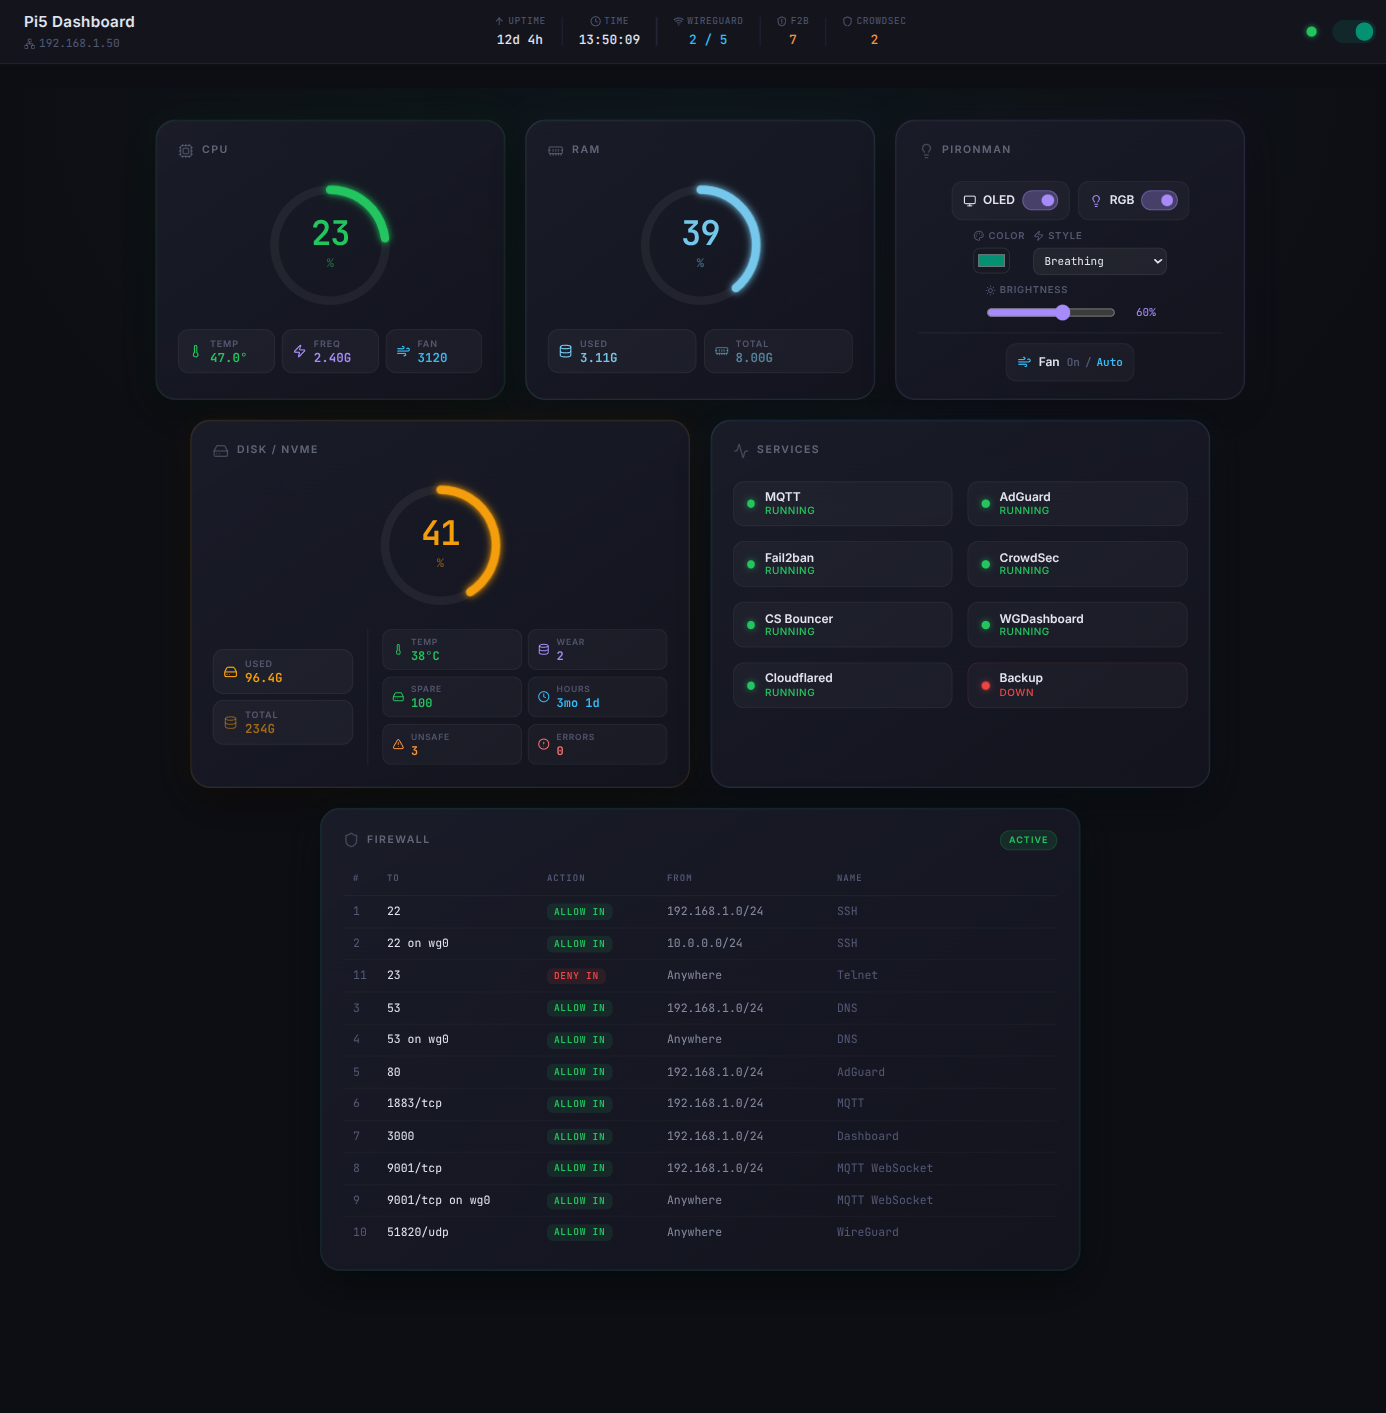
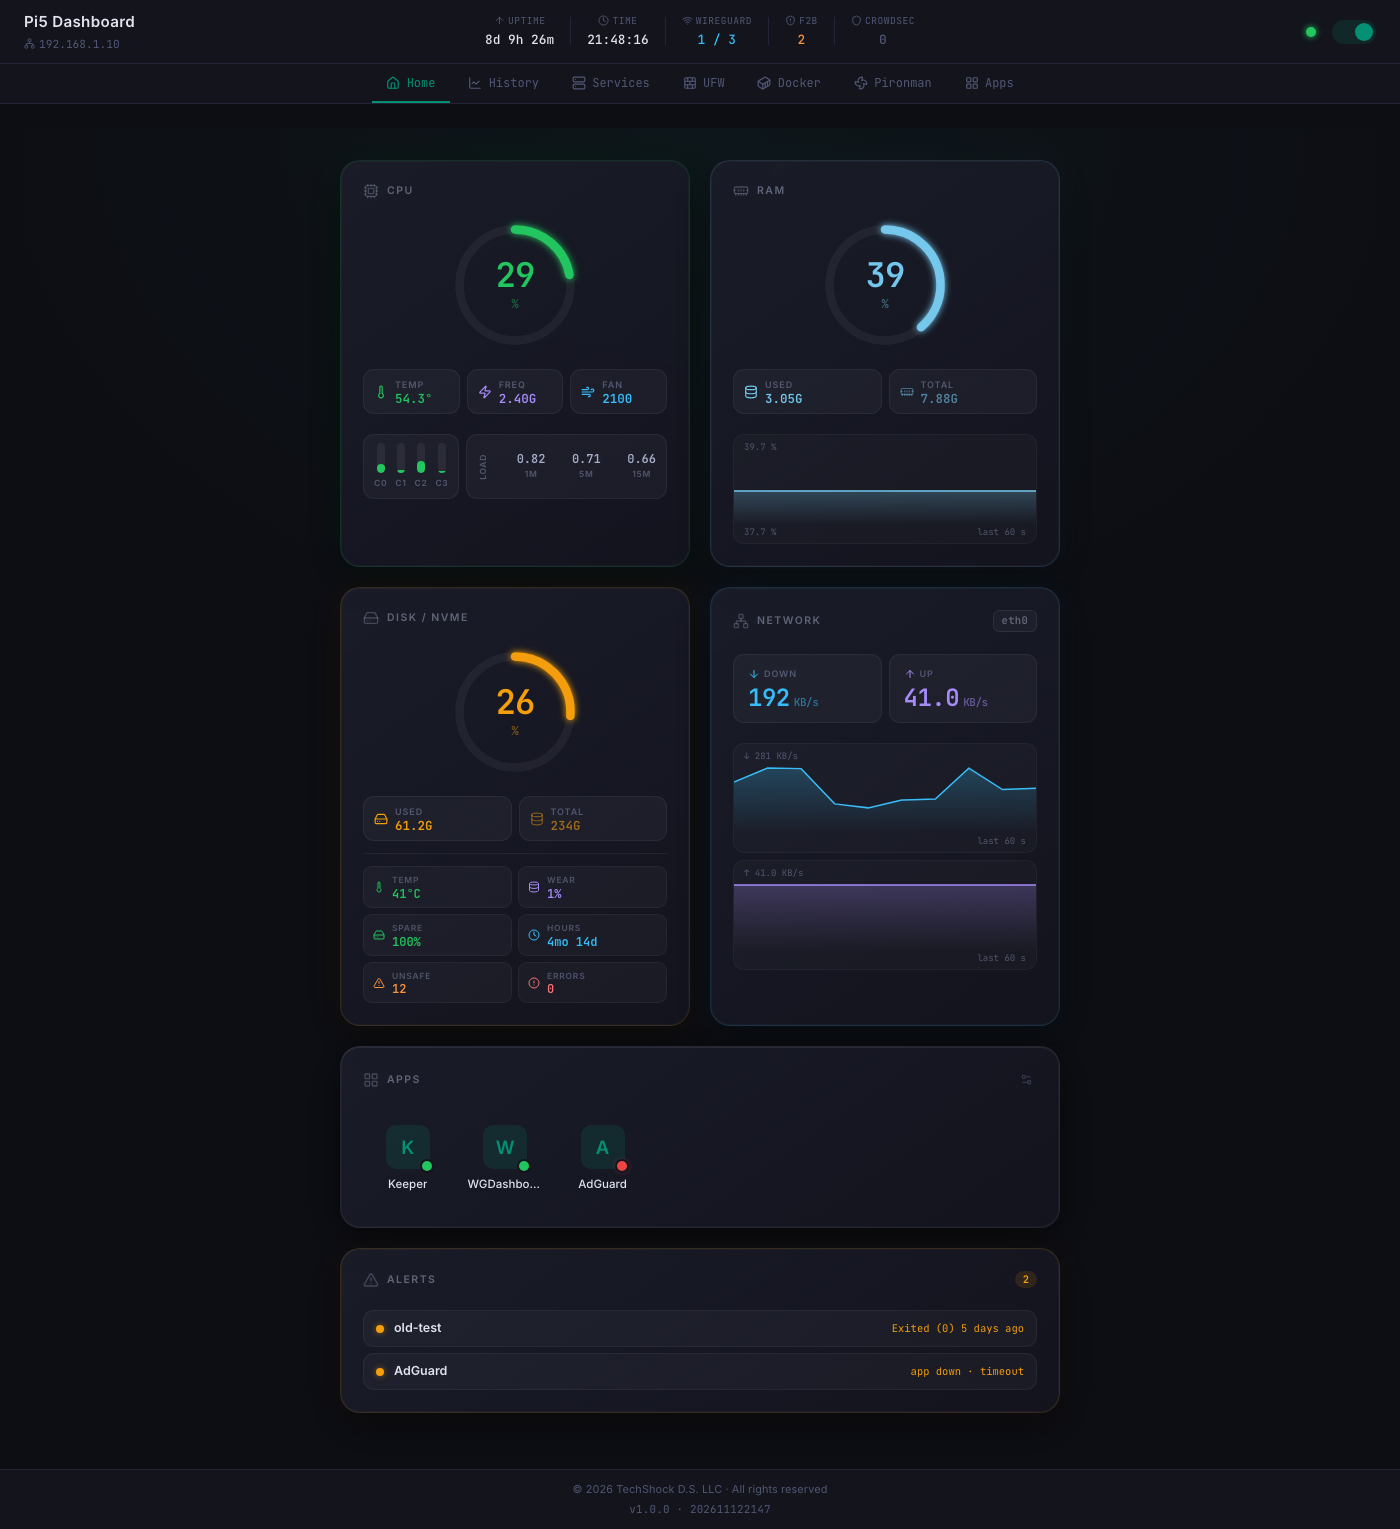
fix: readable container meters, history layout; docs: new screenshots
- Docker CPU/RAM shown as colored meters with a level bar, own line on phones
- History: chart headers clashed with the global .metric class; axis shows
  the date on ranges of a day or more
- docs: fresh screenshots of every tab (mock data), README updated

diff --git a/web/src/components/UnitList.vue b/web/src/components/UnitList.vue
@@ -83,6 +83,15 @@ function actionsFor(row: UnitRow): UnitAction[] {
   return isProtected ? ["restart"] : ["restart", "stop"];
 }
 
+// Same hues as the CPU and RAM cards; amber and red when it's getting heavy.
+const CPU_COLOR = "#38bdf8";
+const RAM_COLOR = "#a78bfa";
+function usageColor(pct: number, normal: string) {
+  if (pct >= 90) return "#ef4444";
+  if (pct >= 70) return "#f97316";
+  return normal;
+}
+
 const ACTION_ICON = { start: Play, stop: Square, restart: RotateCw };
 
 // Last failure per row, shown under it until the next attempt.
@@ -160,9 +169,33 @@ async function act(row: UnitRow, action: UnitAction) {
           <span class="title">{{ row.title }}</span>
           <span class="subtitle">{{ row.subtitle }}</span>
         </div>
-        <span v-if="row.usage" class="usage" title="CPU (100 % = one core) · memory">
-          {{ row.usage.cpu.toFixed(1) }} % · {{ formatBytes(row.usage.mem) }}
-        </span>
+        <div v-if="row.usage" class="usage">
+          <span class="meter" title="CPU — 100 % is one full core">
+            <span class="meter-label">CPU</span>
+            <span class="meter-value" :style="{ color: usageColor(row.usage.cpu, CPU_COLOR) }">
+              {{ row.usage.cpu.toFixed(1) }}%
+            </span>
+            <span class="meter-bar">
+              <span
+                :style="{ width: `${Math.min(row.usage.cpu, 100)}%`, background: usageColor(row.usage.cpu, CPU_COLOR) }"
+              />
+            </span>
+          </span>
+          <span class="meter" :title="`RAM — ${row.usage.memPct.toFixed(1)} % of the Pi's memory`">
+            <span class="meter-label">RAM</span>
+            <span class="meter-value" :style="{ color: usageColor(row.usage.memPct, RAM_COLOR) }">
+              {{ formatBytes(row.usage.mem) }}
+            </span>
+            <span class="meter-bar">
+              <span
+                :style="{
+                  width: `${Math.min(Math.max(row.usage.memPct, 2), 100)}%`,
+                  background: usageColor(row.usage.memPct, RAM_COLOR),
+                }"
+              />
+            </span>
+          </span>
+        </div>
         <span v-if="row.tag" class="tag">{{ row.tag }}</span>
         <span class="status">{{ row.status }}</span>
         <div v-if="canControl" class="actions">
@@ -278,10 +311,47 @@ async function act(row: UnitRow, action: UnitAction) {
 
 .usage {
   flex-shrink: 0;
-  font-size: 10.5px;
+  display: flex;
+  gap: 12px;
+}
+
+.meter {
+  display: grid;
+  grid-template-columns: auto auto;
+  align-items: baseline;
+  column-gap: 6px;
+  row-gap: 3px;
+  min-width: 82px;
+}
+
+.meter-label {
+  font-size: 9px;
   font-family: var(--font-mono);
+  letter-spacing: 0.06em;
   color: var(--text-muted);
+}
+
+.meter-value {
+  justify-self: end;
+  font-size: 12px;
+  font-weight: 600;
+  font-family: var(--font-mono);
   white-space: nowrap;
+}
+
+.meter-bar {
+  grid-column: 1 / -1;
+  height: 3px;
+  border-radius: 2px;
+  background: rgba(255, 255, 255, 0.06);
+  overflow: hidden;
+}
+
+.meter-bar > span {
+  display: block;
+  height: 100%;
+  border-radius: 2px;
+  transition: width 0.6s ease;
 }
 
 .filter-count {
@@ -466,8 +536,21 @@ async function act(row: UnitRow, action: UnitAction) {
     flex-basis: calc(100% - 47px);
   }
 
-  .tag,
+  .tag {
+    margin-left: 47px;
+  }
+
+  /* Meters get a line of their own, status and buttons the next. */
   .usage {
+    margin-left: 47px;
+    flex-basis: calc(100% - 47px);
+  }
+
+  .usage .meter {
+    flex: 1;
+  }
+
+  .usage + .status {
     margin-left: 47px;
   }
 

diff --git a/web/src/views/HistoryView.vue b/web/src/views/HistoryView.vue
@@ -117,13 +117,13 @@ const charts = computed(() =>
       <div v-if="error" class="empty">Could not load history: {{ error }}</div>
       <div v-else-if="points === null" class="empty">Loading…</div>
       <div v-else class="grid">
-        <section v-for="c in charts" :key="c.key" class="metric">
-          <div class="metric-head">
-            <span class="metric-title">
+        <section v-for="c in charts" :key="c.key" class="hist">
+          <div class="hist-head">
+            <span class="hist-title">
               <component :is="c.icon" :size="13" :style="{ color: c.color }" />
               {{ c.label }}
             </span>
-            <span v-if="c.avg !== null" class="metric-stats">
+            <span v-if="c.avg !== null" class="hist-stats">
               avg <b>{{ c.format(c.avg) }}</b> · peak <b>{{ c.format(c.peak!) }}</b>
             </span>
           </div>
@@ -187,14 +187,14 @@ const charts = computed(() =>
   }
 }
 
-.metric {
+.hist {
   display: flex;
   flex-direction: column;
   gap: 8px;
   min-width: 0;
 }
 
-.metric-head {
+.hist-head {
   display: flex;
   flex-wrap: wrap;
   align-items: baseline;
@@ -202,7 +202,7 @@ const charts = computed(() =>
   gap: 4px 12px;
 }
 
-.metric-title {
+.hist-title {
   display: flex;
   align-items: center;
   gap: 6px;
@@ -211,13 +211,13 @@ const charts = computed(() =>
   color: var(--text);
 }
 
-.metric-stats {
+.hist-stats {
   font-size: 10.5px;
   font-family: var(--font-mono);
   color: var(--text-muted);
 }
 
-.metric-stats b {
+.hist-stats b {
   font-weight: 500;
   color: var(--text);
 }

diff --git a/web/src/utils/units.ts b/web/src/utils/units.ts
@@ -15,7 +15,7 @@ export type UnitRow = {
   subtitle: string;
   status: string;
   tag?: string; // small neutral label, e.g. systemd's unit file state
-  usage?: { cpu: number; mem: number }; // running containers: CPU %, RAM bytes
+  usage?: { cpu: number; mem: number; memPct: number }; // running containers: CPU %, RAM bytes and %
   tone: Tone;
   favorite: boolean;
 };
@@ -74,7 +74,7 @@ export function dockerRow(c: DockerContainer, stats?: DockerStats): UnitRow {
     status: c.status,
     tone: dockerTone(c),
     favorite: c.favorite,
-    usage: stats && c.state === "running" ? { cpu: stats.cpu_pct, mem: stats.mem_bytes } : undefined,
+    usage: stats && c.state === "running" ? { cpu: stats.cpu_pct, mem: stats.mem_bytes, memPct: stats.mem_pct } : undefined,
   };
 }
 

diff --git a/web/src/components/HistoryChart.vue b/web/src/components/HistoryChart.vue
@@ -57,8 +57,9 @@ function onMove(e: PointerEvent) {
 
 const hoverLeft = computed(() => (hover.value ? (x(hover.value.ts) / W) * 100 : 0));
 
+// A day or more: the time alone is ambiguous ("21:47 … 21:47"), so add the date.
 const spanDays = computed(() => (props.to - props.from) / 86_400_000);
-function formatTs(ts: number, withDate = spanDays.value > 1) {
+function formatTs(ts: number, withDate = spanDays.value >= 1) {
   const d = new Date(ts);
   const time = d.toLocaleTimeString([], { hour: "2-digit", minute: "2-digit", hour12: false });
   return withDate ? `${d.toLocaleDateString([], { day: "2-digit", month: "short" })} ${time}` : time;

diff --git a/README.md b/README.md
@@ -10,16 +10,30 @@ It merges [Pi5_MQTT](https://github.com/Alex93IDE/Pi5_MQTT) and [Pi5_Dashboard](
 
 - **Live metrics** — CPU (per core, load, temperature, fan), RAM, disk and NVMe health, network throughput, WireGuard peers. Pushed every second over Server-Sent Events.
 - **History** — one averaged sample per minute in SQLite, charted over 1 hour, 24 hours, 7 days or 30 days.
-- **Services and Docker** — every systemd unit and container, searchable, with favorites. Start, stop and restart them from the browser.
-- **Apps** — your own links to whatever else runs on the Pi (Keeper, WGDashboard…).
-- **Alerts** — failed units, stopped containers, firewall down, hot or full hardware, with the count in the browser tab.
+- **Services and Docker** — every systemd unit and container, searchable, with favorites. Start, stop and restart them from the browser. Containers show their live CPU and RAM, sortable to find the busy one.
+- **Apps** — your own links to whatever else runs on the Pi (Keeper, WGDashboard…), with each app's own icon and a dot saying whether it's answering.
+- **Alerts** — failed units, stopped containers, apps down, firewall down, hot or full hardware, with the count in the browser tab.
 - **UFW** rules, **Fail2ban** and **CrowdSec** ban counts.
 - **Pironman5 controls** — OLED, RGB and fan mode.
 - **Works on a phone** — responsive, swipe between tabs, installable as a PWA.
 
+| History | Docker |
+|---|---|
+| ![Metrics history](docs/history.png) | ![Docker containers with CPU and RAM](docs/docker.png) |
+
+| Services | Apps |
+|---|---|
+| ![systemd services](docs/services.png) | ![App links with status](docs/apps.png) |
+
 | Firewall | Pironman |
 |---|---|
 | ![Firewall rules](docs/firewall.png) | ![Pironman controls](docs/pironman.png) |
+
+| On a phone | |
+|---|---|
+| ![Home on a phone](docs/mobile.png) | ![Docker on a phone](docs/mobile-docker.png) |
+
+Screenshots use mock data.
 
 ## How it works
 
